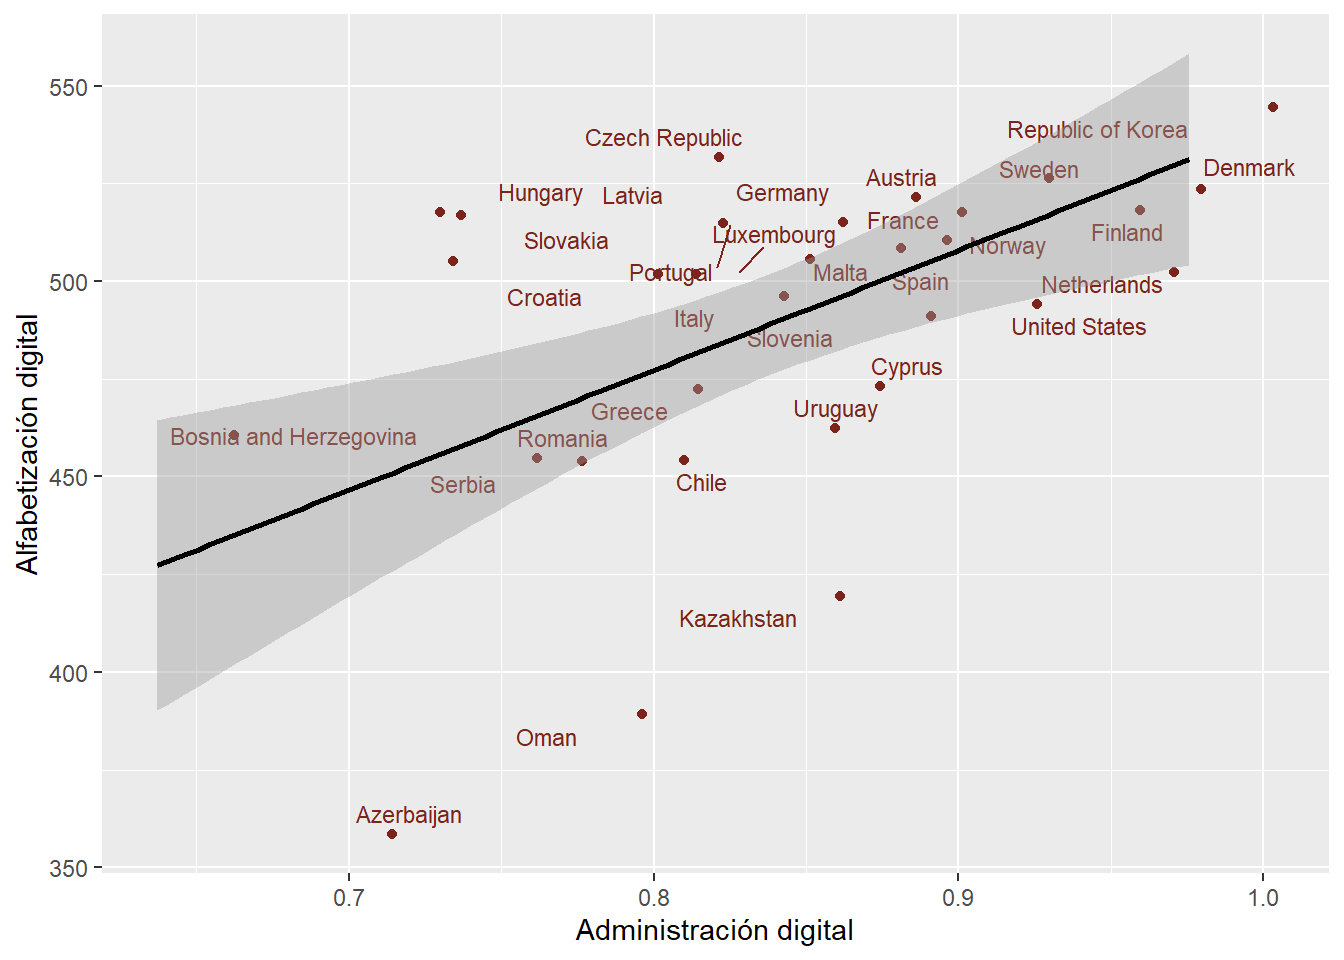
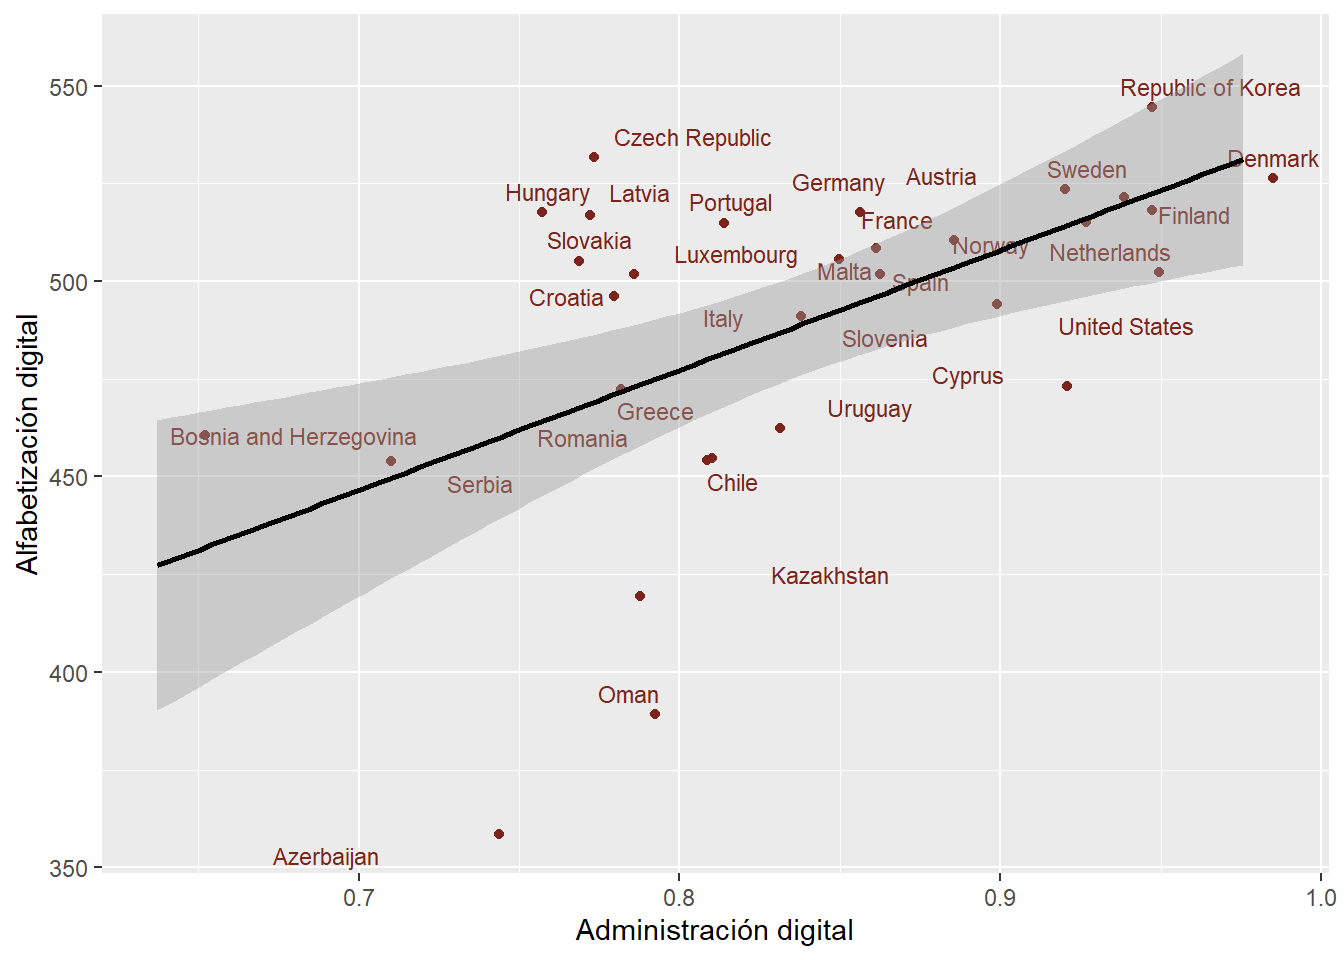
entrega-final

diff --git a/Entrega final multinivel.html b/Entrega final multinivel.html
@@ -395,6 +395,8 @@ Tabla&nbsp;2: Variables nivel 2
 \]</span></p>
 <p><strong>5) Modelo con pendiente aleatoria</strong></p>
 <p><span class="math display">\[\text{alf\_digital}_{ij} = \gamma_{00} + \gamma_{20} \text{iiseb}_{ij} + \gamma_{02} \text{logpib}_{ij} + \mu_{1j}\text{iiseb}_{ij} + \mu_{0j} + r_{ij}\]</span></p>
+<p><strong>6) Interacción entre niveles</strong></p>
+<p><span class="math display">\[\text{alf\_digital}_{ij} = \gamma_{00} +  \gamma_{20} \text{iiseb}_{ij} + \gamma_{02} \text{logpib}_{ij} + \gamma_{11}\text{iiseb}_{ij} \text{logpib}_{ij} + \mu_{1j}\text{iiseb}_{ij} + \mu_{0j} + r_{ij}\]</span></p>
 </section></section><section id="resultados" class="level1" data-number="5"><h1 data-number="5">
 <span class="header-section-number">5</span> Resultados</h1>
 <section id="descriptivos" class="level2" data-number="5.1"><h2 data-number="5.1" class="anchored" data-anchor-id="descriptivos">
